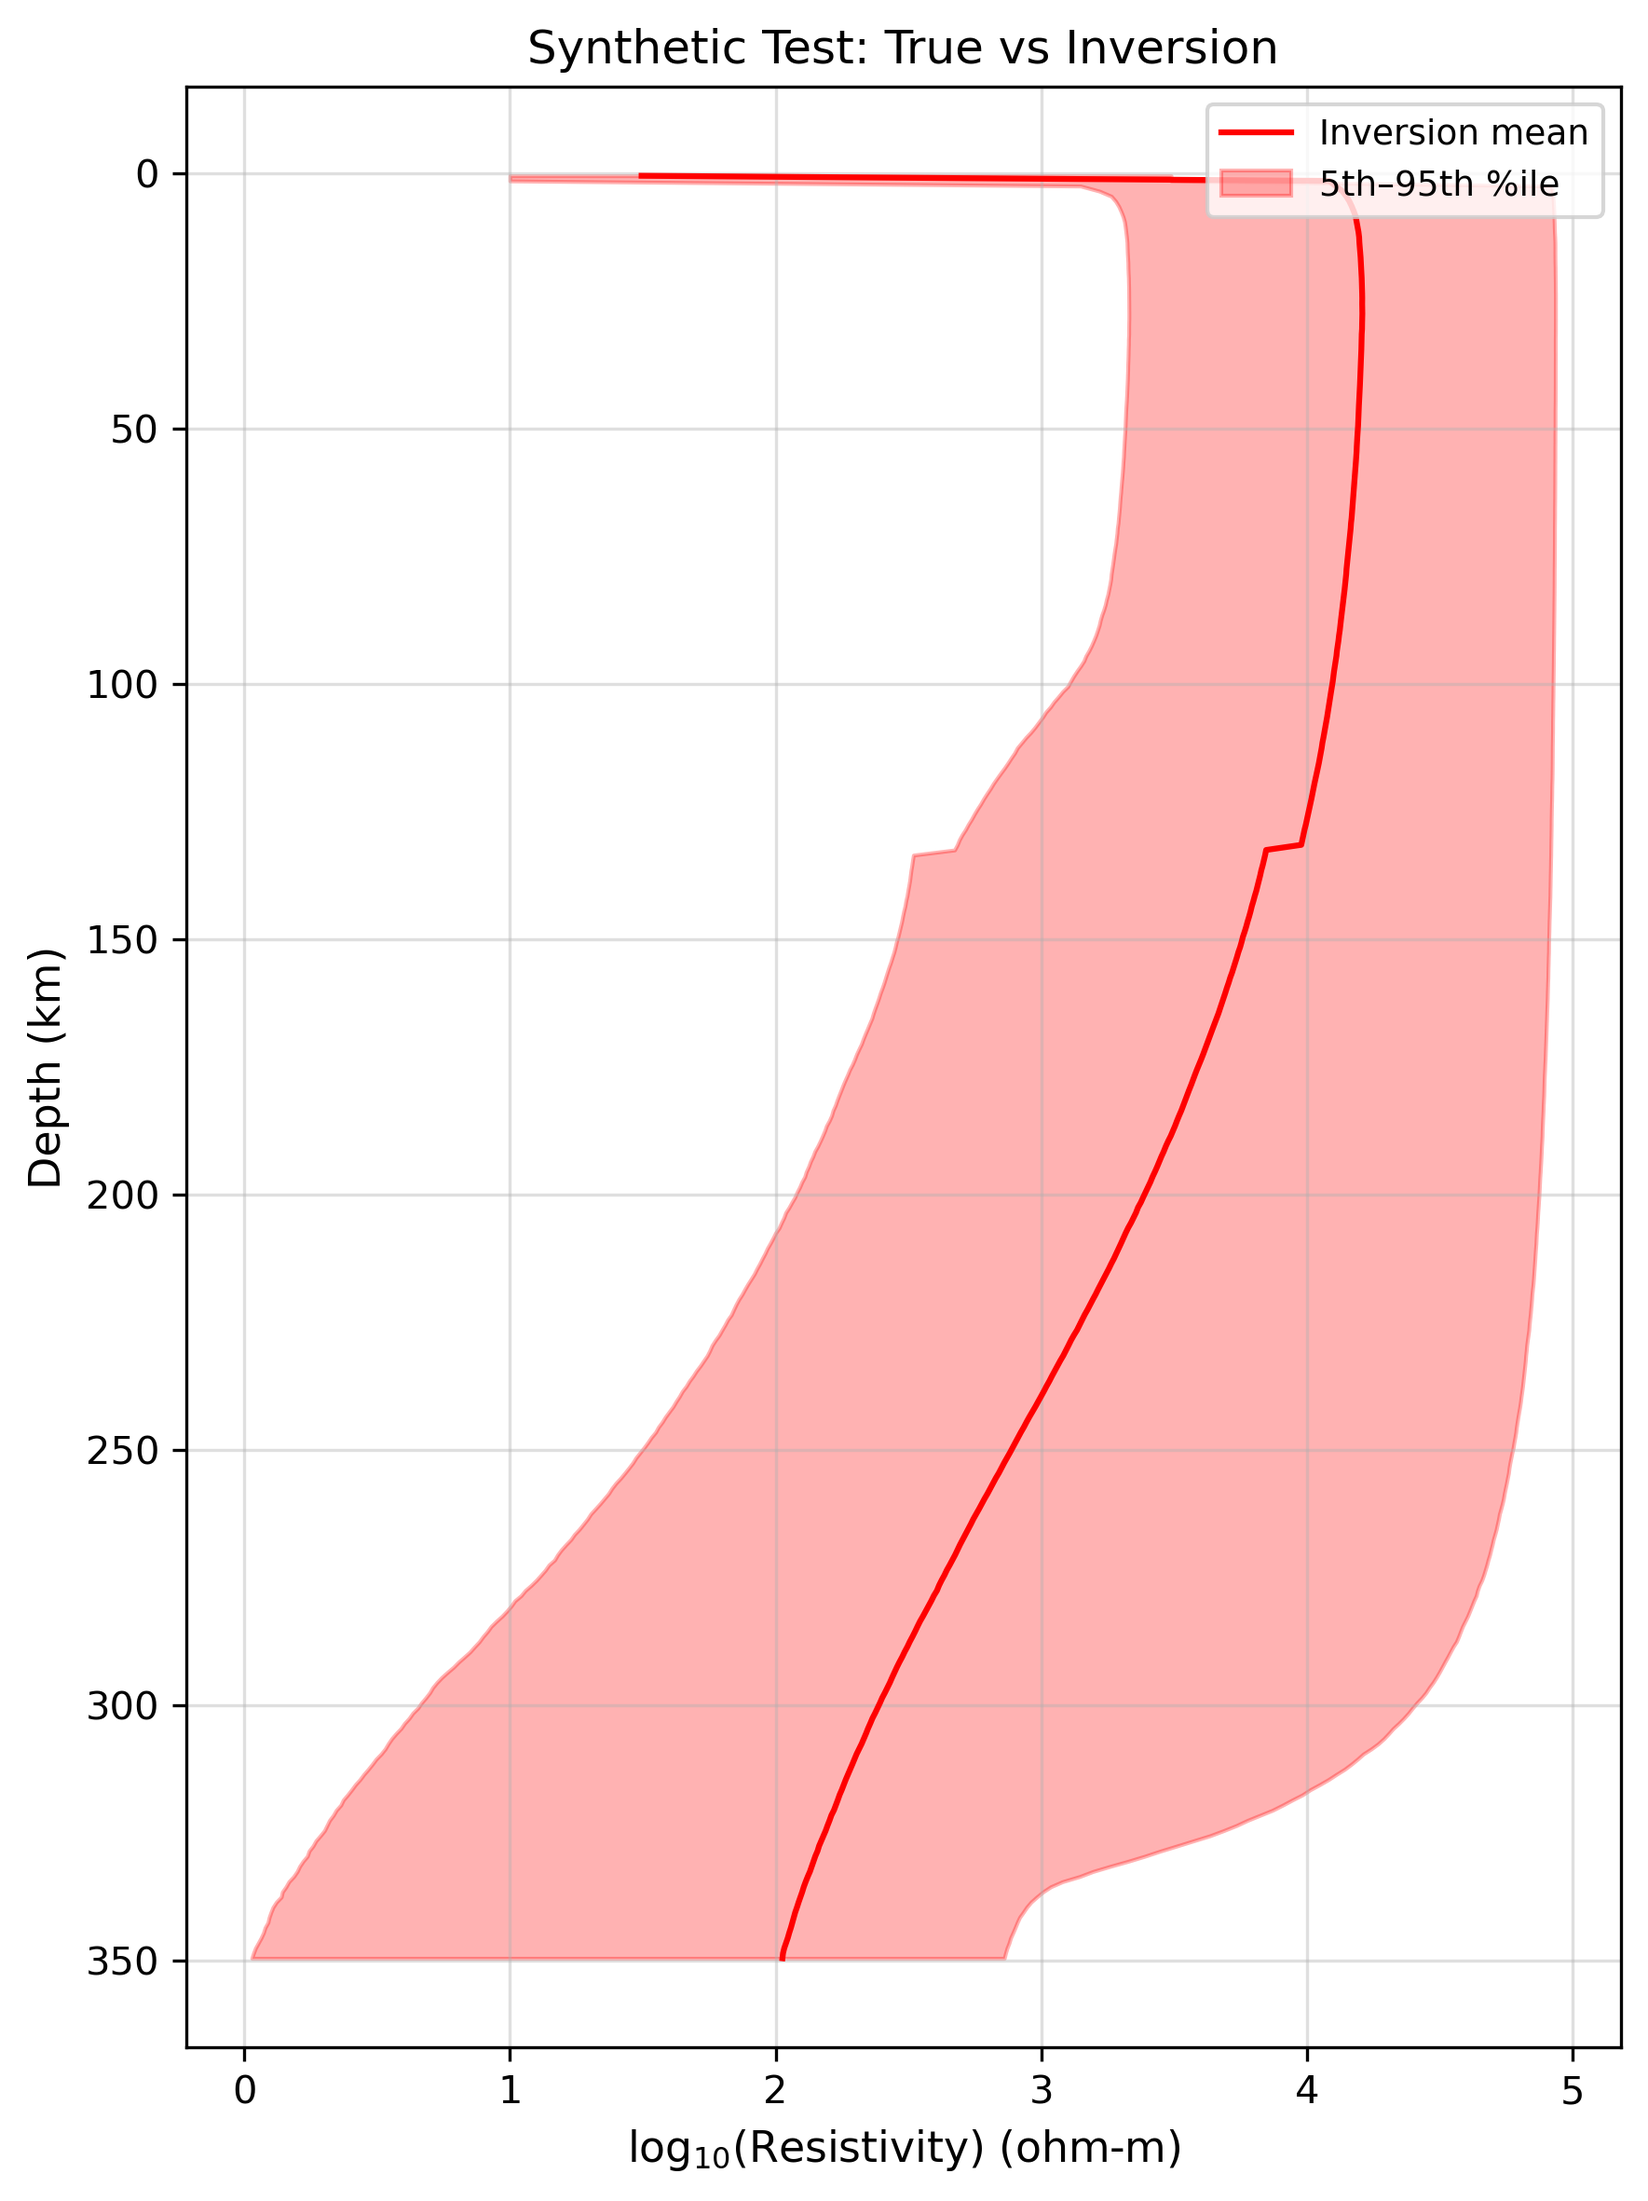
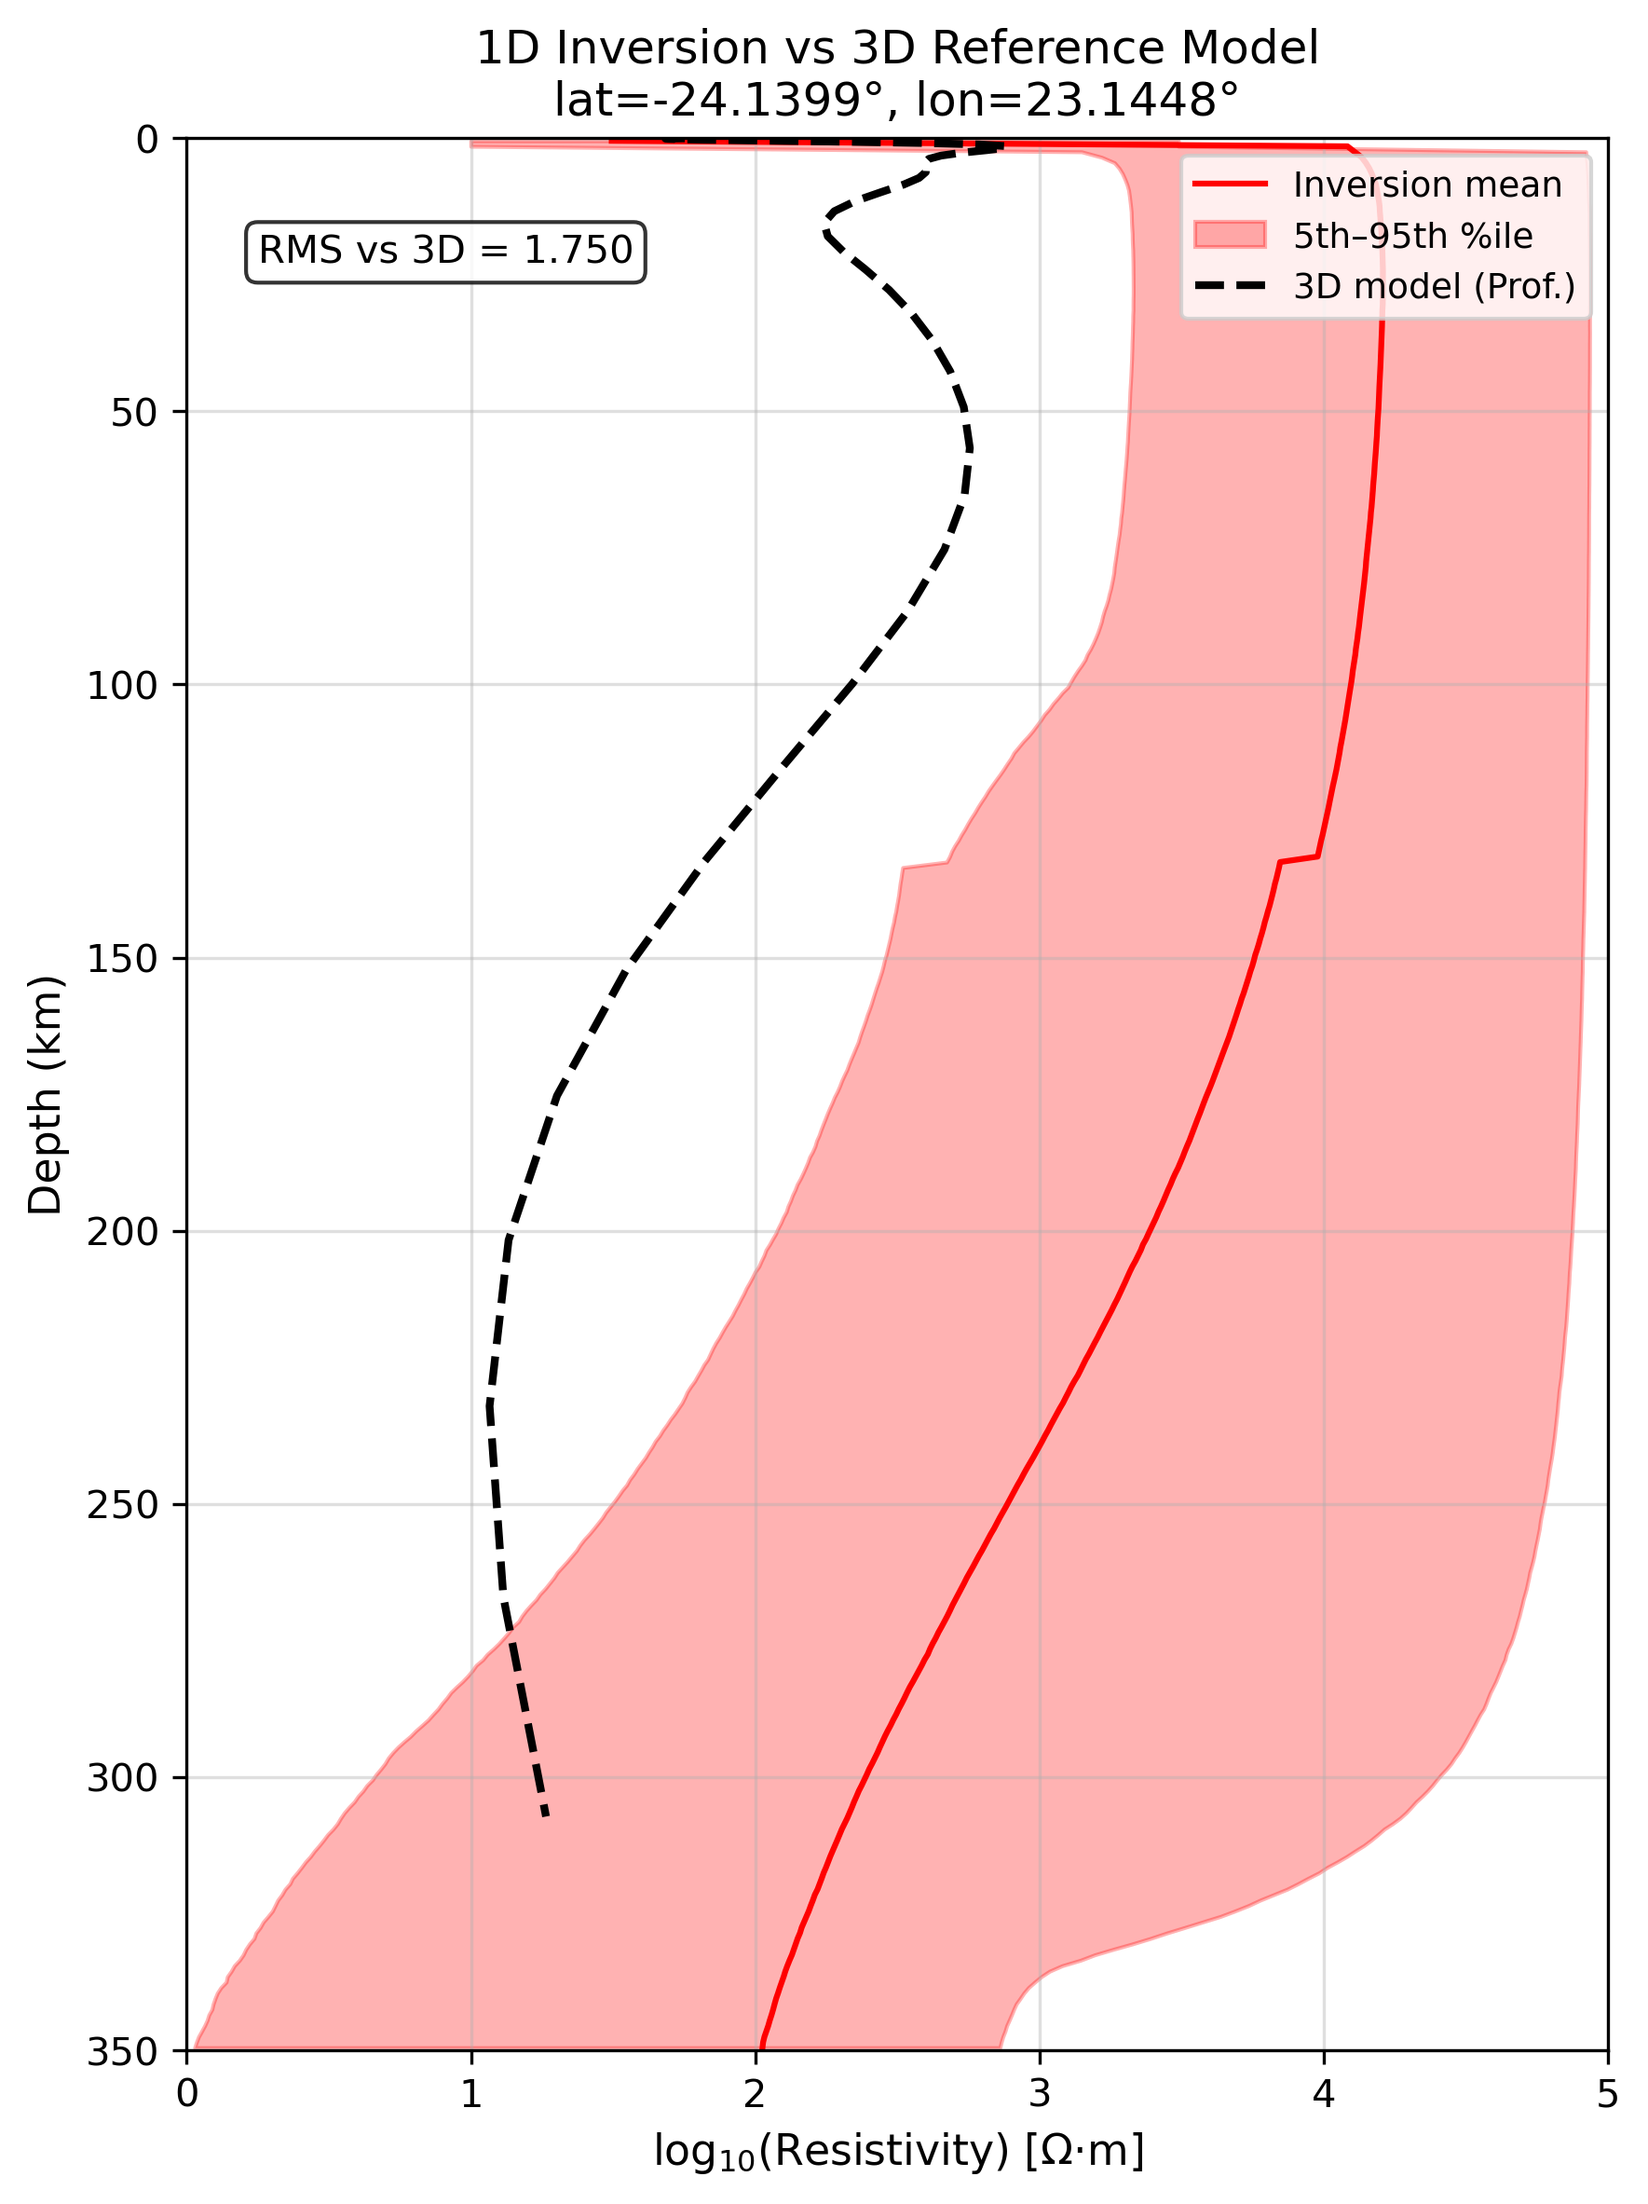
bash file added to run for all stations

diff --git a/inversion-code/MT_Python_code/postprocess/validate_results.py b/inversion-code/MT_Python_code/postprocess/validate_results.py
@@ -41,6 +41,75 @@ from mcmc.config import get_default_config
 
 
 # ------------------------------------------------------------------ #
+# Professor's 3D model helpers
+# (mirrors ReadModel.m + coordinate transform in A1_compare_models_5_slice.m)
+# ------------------------------------------------------------------ #
+
+_PROF_REF_LAT  = -24.79278
+_PROF_REF_LONG =  22.41878
+
+
+def _read_prof_model(filepath):
+    """Read Fine_model_10km_HS.dat → (log10_rho, x_m, y_m, z_m)."""
+    with open(filepath, "r") as fid:
+        fid.readline()                          # comment
+        header = fid.readline().strip()
+        parts  = header.split()
+        nx, ny, nz = int(parts[0]), int(parts[1]), int(parts[2])
+        use_loge   = "LOGE" in header.upper()
+        tokens = []
+        for line in fid:
+            tokens.extend(line.split())
+
+    it = iter(tokens)
+    def _n(n): return np.array([float(next(it)) for _ in range(n)])
+
+    dx, dy, dz = _n(nx), _n(ny), _n(nz)
+
+    raw = np.zeros((nx, ny, nz))
+    for iz in range(nz):
+        for iy in range(ny):
+            for ix in range(nx - 1, -1, -1):
+                raw[ix, iy, iz] = float(next(it))
+
+    origin = _n(3)
+    x = np.concatenate([[origin[0]], origin[0] + np.cumsum(dx)])
+    y = np.concatenate([[origin[1]], origin[1] + np.cumsum(dy)])
+    z = np.concatenate([[origin[2]], origin[2] + np.cumsum(dz)])
+
+    rho = np.zeros((nx+1, ny+1, nz+1))
+    rho[:nx, :ny, :nz] = raw
+    rho[nx,  :,   :  ] = rho[nx-1, :, :]
+    rho[:,   ny,  :  ] = rho[:, ny-1, :]
+    rho[:,   :,   nz ] = rho[:, :,  nz-1]
+
+    if use_loge:
+        sigma = np.exp(rho)
+        sigma[sigma > 1e6] = np.nan
+        with np.errstate(divide="ignore", invalid="ignore"):
+            return np.log10(1.0 / sigma), x, y, z
+    else:
+        with np.errstate(divide="ignore", invalid="ignore"):
+            return np.log10(rho), x, y, z   # file stores resistivity directly
+
+
+def _extract_1d_prof(log10rho, x, y, z, lat, lon):
+    """Return (log10_rho_1d, depth_km) at the grid column nearest to (lat, lon)."""
+    x_geo = x / 1000.0 / 111.0 + _PROF_REF_LAT
+    y_geo = y / 1000.0 / (111.0 * np.cos(np.radians(_PROF_REF_LAT))) + _PROF_REF_LONG
+    z_km  = z / 1000.0
+
+    ix = np.where(x_geo >= lat)[0]
+    iy = np.where(y_geo >= lon)[0]
+    if ix.size == 0 or iy.size == 0:
+        raise ValueError(
+            f"lat={lat}, lon={lon} outside model extent "
+            f"[{x_geo.min():.2f}–{x_geo.max():.2f}, {y_geo.min():.2f}–{y_geo.max():.2f}]"
+        )
+    return log10rho[ix[0], iy[0], :], z_km
+
+
+# ------------------------------------------------------------------ #
 # Helpers
 # ------------------------------------------------------------------ #
 
@@ -90,6 +159,9 @@ def _plot_model_comparison(
     prefix: str = "MT",
     true_depths: list = None,
     true_rho: list = None,
+    lat: float = None,
+    lon: float = None,
+    prof_model: str = None,
     output: str = None,
 ) -> float:
     """
@@ -123,19 +195,15 @@ def _plot_model_comparison(
 
     # ---- True model (synthetic only) ----
     if true_depths is not None and true_rho is not None:
-        z_true_m    = np.array(true_depths, dtype=float)
-        rho_true_ohm = np.array(true_rho,  dtype=float)
+        z_true_m     = np.array(true_depths, dtype=float)
+        rho_true_ohm = np.array(true_rho,   dtype=float)
         rho_true_log = np.log10(rho_true_ohm)
 
-        # Step arrays for plotting (extend last layer to z_max).
-        # where='pre': constant rho going DOWN through each layer, then
-        # jumps horizontally at the interface — correct for a depth profile.
         z_step   = np.append(z_true_m, z_max)
         rho_step = np.append(rho_true_log, rho_true_log[-1])
         ax.step(rho_step, z_step / 1000.0, where="pre",
                 color="blue", linewidth=2, label="True model")
 
-        # RMS: interpolate true model onto inversion depth grid
         interp_true = interp1d(z_step, rho_step, kind="previous",
                                bounds_error=False, fill_value="extrapolate")
         rho_true_interp = interp_true(z_plot[mask])
@@ -143,14 +211,55 @@ def _plot_model_comparison(
         rms = float(np.sqrt(np.mean(misfit ** 2)))
 
         print(f"\n  Model RMS (log10 space) : {rms:.3f}")
-        ax.text(0.05, 0.04, f"RMS = {rms:.3f}",
-                transform=ax.transAxes, fontsize=10,
+        ax.text(0.05, 0.95, f"RMS = {rms:.3f}",
+                transform=ax.transAxes, fontsize=10, va="top",
                 bbox=dict(boxstyle="round", facecolor="white", alpha=0.8))
 
-    ax.invert_yaxis()
-    ax.set_xlabel(r"log$_{10}$(Resistivity) (ohm-m)", fontsize=11)
+        title = "Synthetic Test: True vs Inversion"
+
+    # ---- Professor's 3D model (real data) ----
+    elif prof_model is not None and lat is not None and lon is not None:
+        if not os.path.exists(prof_model):
+            print(f"  ⚠  Professor's model not found: {prof_model}")
+            title = "1D Inversion Result"
+        else:
+            print(f"  Loading professor's 3D model for comparison …")
+            try:
+                log10rho_3d, mx, my, mz = _read_prof_model(prof_model)
+                rho_3d_1d, z_3d_km = _extract_1d_prof(log10rho_3d, mx, my, mz, lat, lon)
+
+                # plot 3D model profile, skip z=0 surface point
+                mask_3d = (z_3d_km > 0) & (z_3d_km <= z_max / 1000.0)
+                ax.plot(rho_3d_1d[mask_3d], z_3d_km[mask_3d],
+                        "--k", linewidth=2, label="3D model (Prof.)")
+
+                # RMS between inversion mean and 3D model (interpolated)
+                valid_z = z_3d_km[z_3d_km > 0]
+                valid_r = rho_3d_1d[z_3d_km > 0]
+                interp_3d = interp1d(valid_z, valid_r,
+                                     bounds_error=False, fill_value=np.nan)
+                rho_3d_at_inv = interp_3d(depth_km)
+                valid = ~np.isnan(rho_3d_at_inv)
+                if valid.sum() > 0:
+                    rms = float(np.sqrt(np.mean((pmean[mask][valid] - rho_3d_at_inv[valid]) ** 2)))
+                    print(f"  Model RMS vs 3D model (log10 space) : {rms:.3f}")
+                    ax.text(0.05, 0.95, f"RMS vs 3D = {rms:.3f}",
+                            transform=ax.transAxes, fontsize=10, va="top",
+                            bbox=dict(boxstyle="round", facecolor="white", alpha=0.8))
+
+                title = f"1D Inversion vs 3D Reference Model\nlat={lat:.4f}°, lon={lon:.4f}°"
+                print(f"  3D model comparison added to plot.")
+            except Exception as exc:
+                print(f"  ⚠  Could not extract 3D model profile: {exc}")
+                title = "1D Inversion Result"
+    else:
+        title = "1D Inversion Result (Real Data)"
+
+    ax.set_xlim(0, 5)
+    ax.set_ylim(z_max / 1000.0, 0)   # 0 km at top, depth increases downward
+    ax.set_xlabel(r"log$_{10}$(Resistivity) [Ω·m]", fontsize=11)
     ax.set_ylabel("Depth (km)", fontsize=11)
-    ax.set_title("Synthetic Test: True vs Inversion", fontsize=12)
+    ax.set_title(title, fontsize=12)
     ax.legend(fontsize=9, loc="upper right")
     ax.grid(True, alpha=0.4)
     plt.tight_layout()
@@ -173,6 +282,9 @@ def validate(
     prefix: str = "MT",
     true_depths: list = None,
     true_rho: list = None,
+    lat: float = None,
+    lon: float = None,
+    prof_model: str = None,
     n_pred_samples: int = 200,
     output: str = None,
 ):
@@ -447,6 +559,9 @@ def validate(
         prefix=prefix,
         true_depths=true_depths,
         true_rho=true_rho,
+        lat=lat,
+        lon=lon,
+        prof_model=prof_model,
     )
 
 
@@ -462,6 +577,12 @@ def main():
                         help="True layer resistivities in ohm-m (synthetic only)")
     parser.add_argument("--nsamples",    type=int, default=200,
                         help="Number of posterior samples used for prediction (default 200)")
+    parser.add_argument("--lat",         type=float, default=None,
+                        help="Station latitude  — enables professor's 3D model comparison")
+    parser.add_argument("--lon",         type=float, default=None,
+                        help="Station longitude — enables professor's 3D model comparison")
+    parser.add_argument("--prof_model",  default=None,
+                        help="Path to Fine_model_10km_HS.dat (professor's 3D model)")
     parser.add_argument("--output",      default=None)
     args = parser.parse_args()
 
@@ -471,6 +592,9 @@ def main():
         prefix=args.prefix,
         true_depths=args.true_depths,
         true_rho=args.true_rho,
+        lat=args.lat,
+        lon=args.lon,
+        prof_model=args.prof_model,
         n_pred_samples=args.nsamples,
         output=args.output,
     )
